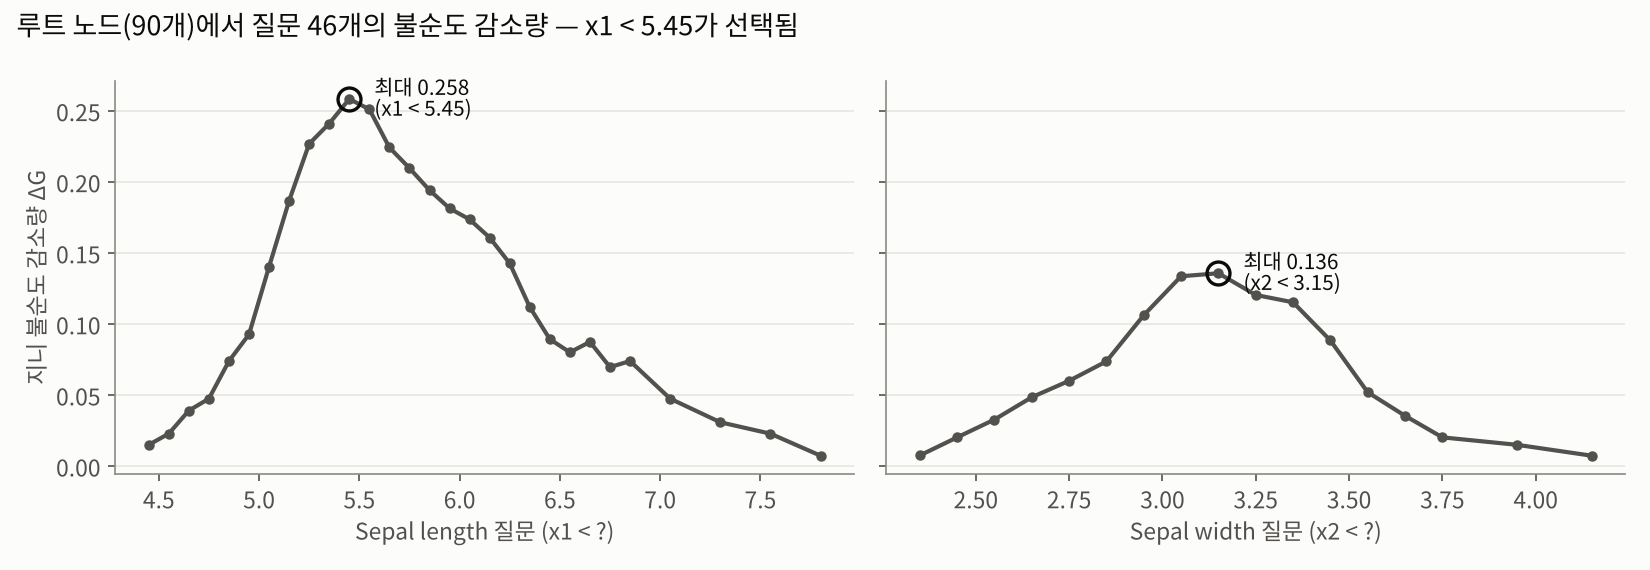
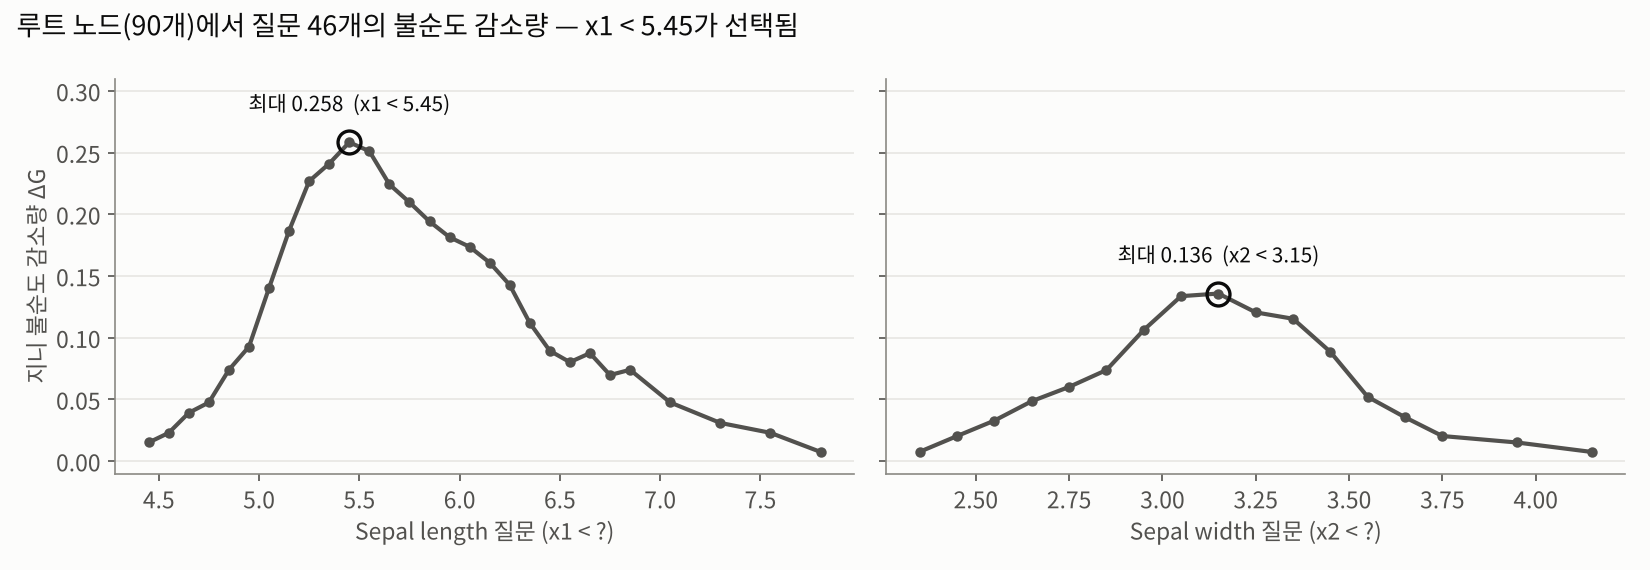
Restructure decision tree README to match other folders and fix figures
- README: add key sentence, file notes (bugs, dt_ex2.m marked as modified copy), result summary with Python-reproduction source note, pruning-level table, summary
- fig1/fig2/fig3: fix arrow visibility, label overlap, node text overflow
- fig5: replace random CV curve with deterministic train/test error per pruning level

diff --git a/decision_tree_classification/README.md b/decision_tree_classification/README.md
@@ -1,18 +1,63 @@
 # Decision Tree (의사결정나무) — 붓꽃 분류
 
 인공지능개론 6주차 실습 · 정보이론기반 인공지능  
-Sepal length / width 2개 특징으로 붓꽃 3품종을 분류하는 의사결정나무를 **지니 불순도로 직접 구현**하고, MATLAB `fitctree` 결과와 비교했다.
+Sepal length / width 2개 특징으로 붓꽃 3품종을 나누는 의사결정나무를 **지니 불순도로 직접 구현**하고(질문 생성 → 불순도 감소량 → 분할 → 사전 가지치기), MATLAB `fitctree`와 비교한 뒤 `cvloss`로 사후 가지치기까지 해봤다.
+
+> **의사결정나무 = 불순도(섞인 정도)를 가장 많이 줄이는 질문 하나로 데이터를 둘로 나누고, 나뉜 그룹마다 이걸 반복한다.** 몇 번 나눠야 끝날지 미리 모르니까 while문과 멈춤 조건으로 돌린다.
+
+![flow](images/dt_fig1_flow.png)
 
 | 파일 | 내용 |
 | --- | --- |
-| `dt_ex.m` | 직접 구현 초안 — 종료 조건이 마지막 노드만 확인해서 학습 데이터 8개가 미할당(0)으로 남음 |
-| `dt_ex_student_2.m` | 직접 구현 완성본 — 질문 생성 → 불순도 감소량 → 분할 → 사전 가지치기 2종 |
-| `dt_ex_student_1.m` | 내장함수 `fitctree` → 평가 데이터 예측 → `cvloss`로 사후 가지치기 |
-| `dt_ex2.m` | 위 두 파일 통합본 (`% [수정]` 표시 3곳: 크기 불일치 오류 수정, `figure;` 추가, `rng(0)` 시드 고정) |
+| `dt_ex.m` | 직접 구현 **초안** — 노드마다 지니 감소량이 가장 큰 질문으로 나누고, 클래스가 하나만 남으면 잎. 종료 조건에 버그가 있다(아래) |
+| `dt_ex_student_2.m` | 직접 구현 **완성본** (주석 포함) — 질문 생성(인접값의 중간값) → 지니 감소량 → 분할. 사전 가지치기 2종: 노드 데이터가 10개 미만이면 다수결 잎, 소수 클래스가 딱 1개면 다수 클래스로 잎. 마지막에 `fitctree`의 학습 데이터 예측과 비교 |
+| `dt_ex_student_1.m` | 내장함수 — `fitctree` → 평가 데이터 60개 `predict` → `confusionchart`, `resubLoss`·`cvloss`로 가지치기 수준을 고른 뒤 `prune` |
+| `dt_ex2.m` | **수정본** — 위 두 파일을 합친 교수님 코드에서 3곳을 고쳤다 (`% [수정]` 표시). 교수님 원본 `dt_ex2.m`은 이 레포에 없다 |
 
-- 데이터 분할: 학습 90개 (품종별 21~50번째), 평가 60개 (품종별 1~20번째)
-- 직접 구현 결과: 질문 12개 · 잎 13개, 학습 데이터 **79/90 (87.8%)** — 같은 설정(분할 최소 샘플 10, 지니)으로 만든 트리와 학습 데이터 90개 예측이 모두 일치 (Python scikit-learn으로 교차 확인)
+- 데이터 분할 (모든 파일 공통): 학습 90개 (품종별 21~50번째), 평가 60개 (품종별 1~20번째), 특징은 `meas(:,1:2)`
+- `dt_ex.m` 종료 조건 버그: for 루프가 끝난 뒤 **마지막으로 처리한 노드**의 L/R만 보고 while을 끝낸다. 아직 나눌 노드가 남아 있어도 끝나서 학습 데이터 8개(순번 33, 43, 44, 52, 53, 68, 83, 87)가 라벨 0(미할당)으로 남는다. `dt_ex_student_2.m`은 "다음 단계에서 나눌 노드가 하나도 없을 때" 끝나서 이 문제가 없다. `dt_ex.m` 105번째 줄 `Final_Q = ...`는 세미콜론이 없어 반복마다 출력된다.
+- `dt_ex2.m` 원본의 크기 불일치 오류: 마지막 비교 `matlab_label(:)-EST_LABEL(:)`에서 `matlab_label`은 평가 데이터 예측(60×1), `EST_LABEL`은 학습 데이터 분류 결과(90×1)라 빼기에서 오류가 난다 → 수정본은 `predict(mdl, Training_data)`로 학습 데이터 예측끼리 비교한다.
+- 시드 미고정: `cvloss`는 학습 데이터를 무작위로 10겹으로 나누기 때문에 실행할 때마다 `bestlevel`(가지치기 수준)이 달라질 수 있다 → 수정본은 `cvloss` 앞에 `rng(0)`을 넣었다. `dt_ex_student_1.m`은 원본 그대로라 시드가 고정돼 있지 않다.
+- 가지치기 그래프 창: `confusionchart` 바로 다음의 `plot`이 새 창 없이 같은 창에 그려진다 → 수정본은 `figure;`를 추가했다. `dt_ex_student_1.m` 49번째 줄은 원본 그대로다.
+- 직접 구현은 **학습 데이터 90개의 라벨(`EST_LABEL`)만** 만든다. `Final_Q`는 고른 질문을 순서대로 쌓기만 하고 부모-자식 연결을 저장하지 않아서, 이 코드만으로는 평가 데이터를 예측할 수 없다.
+- 질문 기준값: 직접 구현은 학습 데이터 **전체**에서 만든 중간값 46개 중에서 고르고, 라이브러리 트리는 **그 노드 안** 데이터의 중간값을 쓴다. 학습 데이터를 나누는 결과는 같아도 기준값 위치가 다를 수 있다 (예: 두 번째 질문 Sepal width 2.55 vs 2.75).
+- 동점: 다수결에서 개수가 같으면 `max`가 앞 번호를 고른다 (잎 [versicolor 2, virginica 2] → versicolor).
 
-![flow](images/dt_fig1_flow.png)
+**결과 요약**
+
+- 아래 숫자는 모두 같은 로직을 Python으로 재현해 계산했다 (MATLAB에서 직접 확인한 값 아님). 직접 구현 부분은 Octave 8.4에서 원본 `.m`을 그대로 실행해 같은 값이 나오는 것도 확인했다. `fitctree` 부분은 같은 설정(지니, 분할 최소 샘플 10)의 scikit-learn `DecisionTreeClassifier`로 재현했다.
+
+| | 직접 구현 (`dt_ex_student_2.m`) | `fitctree` 방식 (scikit-learn 재현) |
+| --- | --- | --- |
+| 질문 수 / 잎 수 | 12 / 13 | 14 / 15 (예측이 같은 형제 잎 2쌍 포함) |
+| 학습 데이터 정답 | 79 / 90 (87.8%) | 79 / 90 — 90개 예측이 직접 구현과 모두 같음 |
+| 평가 데이터 정답 | 코드에 예측 기능 없음 | 44 / 60 (73.3%) |
+
+- 질문 후보: Sepal length 29개 + Sepal width 17개 = 46개
+- 루트(30/30/30)의 지니 0.667 → 46개 중 **x1 < 5.45**가 감소량 0.258로 최대 (Sepal width 쪽 최대는 x2 < 3.15의 0.136) → 31개 / 59개로 나뉜다
+- `Final_Q` (질문 값, 특징 번호): `5.45 1 | 2.55 2 | 6.15 1 | 3.45 2 | 6.85 1 | 5.75 1 | 3.15 2 | 3.05 2 | 6.55 1 | 2.95 2 | 2.35 2 | 2.85 2`, while 반복 8회. 잎 13개 중 6개는 데이터가 1~4개뿐이다
+- 학습 데이터에서 틀린 11개 (붓꽃 원본 번호): setosa → versicolor 42 / versicolor → setosa 85 / versicolor → virginica 73, 92 / virginica → versicolor 122, 135, 138, 141, 143, 146, 148
+- 평가 데이터 혼동행렬 (`fitctree` 방식, 행 = 실제 setosa / versicolor / virginica): [20 0 0], [0 14 6], [0 10 10]
+- 직접 구현 트리를 노드 구조로 복원해 평가 데이터에 적용하면 43 / 60이다. 1개 차이는 위 "질문 기준값" 차이 때문이다 (60번 꽃 (5.2, 2.7)).
+- `dt_ex.m` (초안): 질문 27개, 학습 데이터 82개는 정답, 8개는 미할당
+
+가지치기 수준별 결과 (`fitctree` 방식 트리의 가지치기 순서). `cvloss`가 이 중 어느 크기를 고르는지는 무작위 10겹 분할에 따라 달라서 여기에는 적지 않았다.
+
+| 잎 개수 | 13 (전체) | 12 | 10 | 7 | 6 | 5 | 4 | 3 | 2 | 1 |
+| --- | --- | --- | --- | --- | --- | --- | --- | --- | --- | --- |
+| 학습 정답 / 90 | 79 | 79 | 76 | 74 | 74 | 74 | 73 | 71 | 58 | 30 |
+| 평가 정답 / 60 | 44 | 47 | 46 | 47 | 47 | 47 | 44 | 41 | 36 | 20 |
+
+- 잎 3개 트리는 x1 < 5.45 → setosa / x1 < 6.15 → versicolor / 나머지 → virginica다. 잘려 나간 "x2 < 3.45?" 질문이 꽃받침이 긴 setosa 3개를 맞히고 있어서, 여기까지 자르면 평가 정답이 41개로 줄어든다.
+
+![root scan](images/dt_fig2_rootscan.png)
 ![tree](images/dt_fig3_tree.png)
 ![space](images/dt_fig4_space.png)
+![prune](images/dt_fig5_prune.png)
+
+**정리**
+1. 의사결정나무는 "불순도 감소량이 가장 큰 질문으로 나누기"를 반복한다. 자식 불순도는 데이터 수로 가중평균하고, 연속형 특징의 질문 후보는 정렬한 인접값의 중간값이다.
+2. 직접 구현과 `fitctree` 방식 트리는 학습 데이터를 똑같이 나눈다. 다만 기준값을 어디서 뽑는지가 달라서 처음 보는 데이터에서는 예측이 조금 다를 수 있다.
+3. 크기가 다른 L/R 데이터는 셀 배열 `{}`로, 원래 위치는 순번 열로 관리한다. while의 종료 조건은 모든 노드를 확인한 뒤 판단해야 한다 (`dt_ex.m` 버그).
+4. setosa는 첫 질문에서 거의 다 갈리고, 나머지 질문은 versicolor ↔ virginica를 나누는 데 쓰인다. 학습 87.8% → 평가 73.3%이고, 데이터 1~4개짜리 잎이 6개라 과적합 신호다.
+5. 잎을 줄이면 학습 오차는 계속 늘지만, 평가 오차는 잎 5개 이후로 더 줄지 않고 3개 이하로 자르면 나빠진다. 어디까지 자를지는 평가 데이터가 아니라 교차검증 오차로 정한다.
